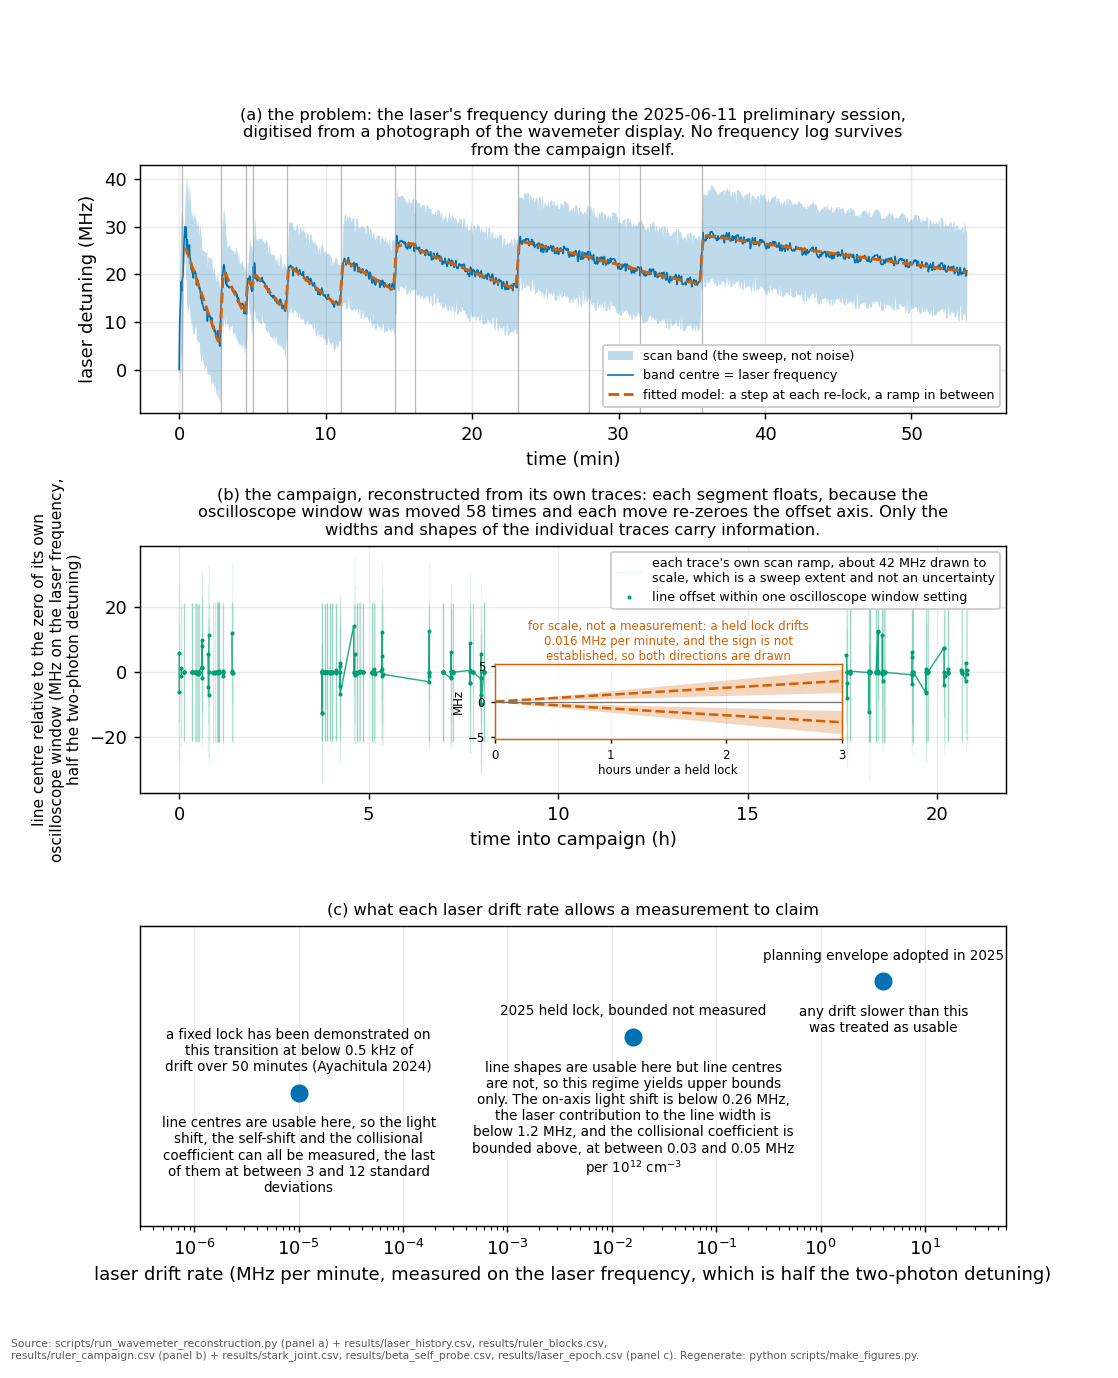
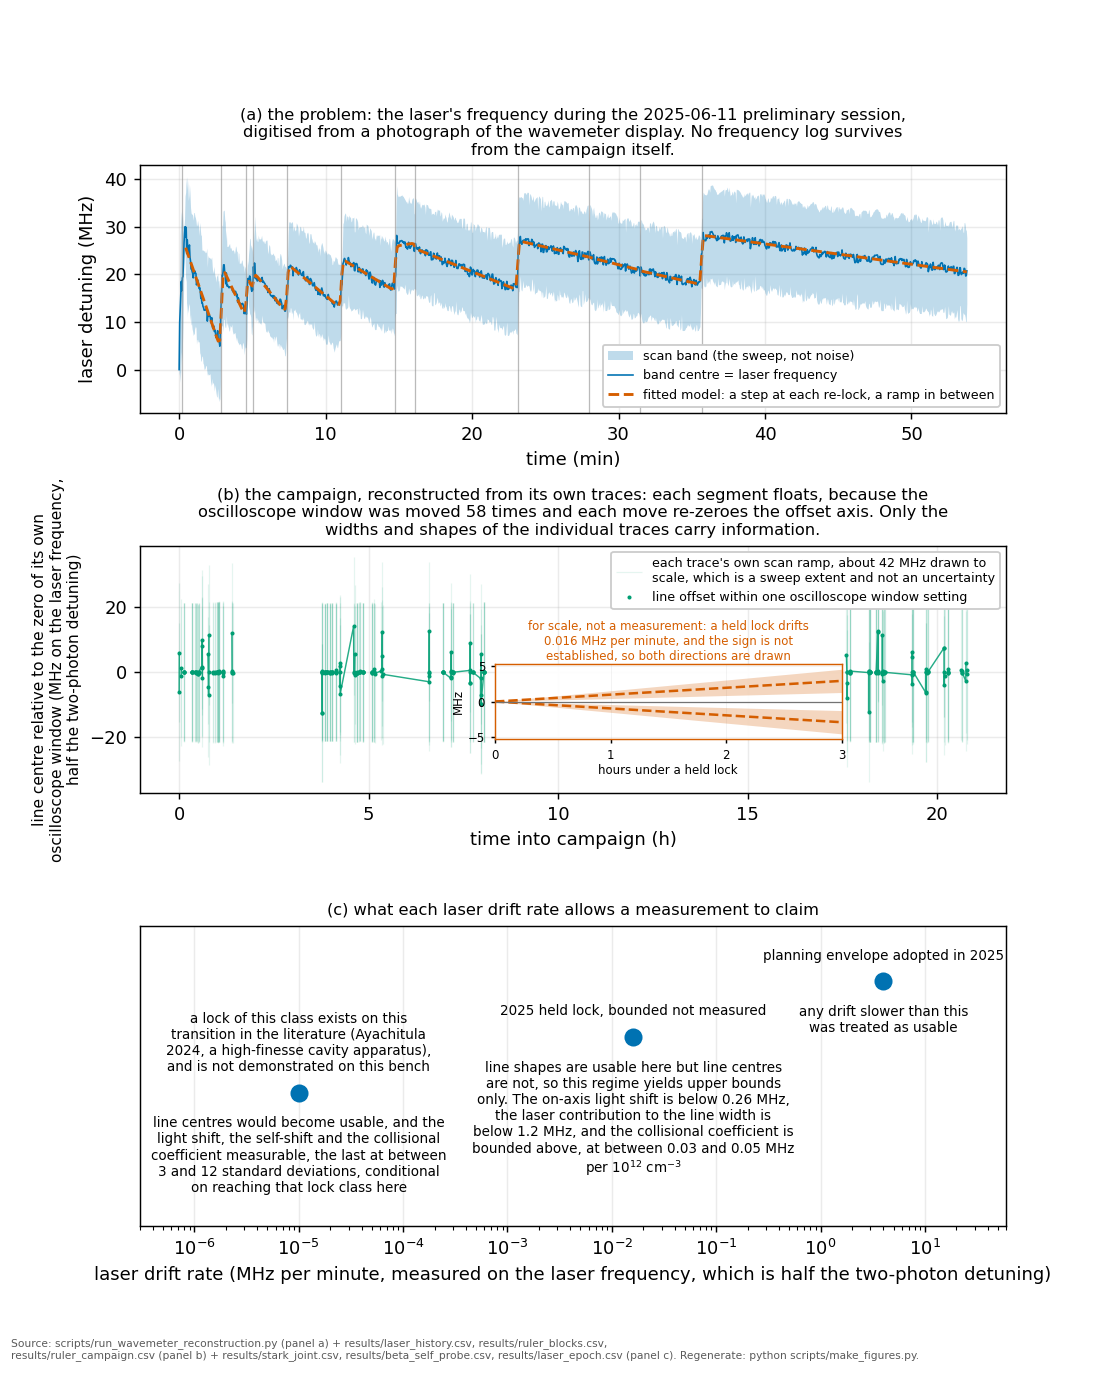
Port the caption-seam closure (archive 4b92798)
fig15(c) lock-class conditionality, PLAN threshold anchoring, fig21/22
status words, and the plant-verified caption-status guard.

Changed region(s): [[0.1216, 0.8113, 0.3953, 0.8737], [0.1521, 0.7177, 0.3953, 0.7801]]

diff --git a/scripts/make_figures.py b/scripts/make_figures.py
@@ -1941,12 +1941,13 @@ def fig_drift_story():
          f"bounded above, at between {min(bvals):.2f} and {max(bvals):.2f} MHz\n"
          r"per $10^{12}$ cm$^{-3}$"),
         (ayachitula_mhz_per_min,
-         "a fixed lock has been demonstrated on\nthis transition at below 0.5 kHz of\n"
-         "drift over 50 minutes (Ayachitula 2024)",
-         "line centres are usable here, so the light\n"
-         "shift, the self-shift and the collisional\n"
-         "coefficient can all be measured, the last\n"
-         "of them at between 3 and 12 standard\ndeviations"),
+         "a lock of this class exists on this\ntransition in the literature "
+         "(Ayachitula\n2024, a high-finesse cavity apparatus),\n"
+         "and is not demonstrated on this bench",
+         "line centres would become usable, and the\n"
+         "light shift, the self-shift and the collisional\n"
+         "coefficient measurable, the last at between\n"
+         "3 and 12 standard deviations, conditional\non reaching that lock class here"),
     ]
     ys = [2, 1, 0]
     for y, (rate, left, right) in zip(ys, regimes):
@@ -3336,8 +3337,11 @@ def fig_joint_fit_five():
             axr.set_xlabel("detuning from this repeat's fitted centre "
                            "(MHz on the laser frequency)", fontsize=8.5)
 
+    status = next(r["status"] for r in _rows("global_archive_fit")
+                  if r["quantity"] == "beta_self_joint")
     _footer(fig, "Sources: results/global_archive_fit.csv (the shared optimum "
-                 "and its errors) + data_raw archive (per-trace data, local "
+                 f"and its errors, {STATUS_WORD.get(status, status.lower())}) "
+                 "+ data_raw archive (per-trace data, local "
                  "nuisance refits only). Regenerate: python scripts/make_figures.py.")
     _save(fig, "fig21_joint_fit_five.png")
 
@@ -3453,7 +3457,10 @@ def fig_joint_fit_twenty():
              f"signal is\nweakest in the {int(round(min(POWERS) * 1000))} mW column, the "
              "lowest drive power of the sweep.",
              ha="center", va="top", fontsize=7.6, color="0.35")
-    _footer(fig, "Sources: results/global_archive_fit.csv (the shared optimum) "
+    status = next(r["status"] for r in _rows("global_archive_fit")
+                  if r["quantity"] == "beta_self_joint")
+    _footer(fig, "Sources: results/global_archive_fit.csv (the shared optimum, "
+                 f"{STATUS_WORD.get(status, status.lower())}) "
                  "+ data_raw archive (per-trace data, local nuisance refits "
                  "only). Regenerate: python scripts/make_figures.py.")
     _save(fig, "fig22_joint_fit_twenty.png")

diff --git a/tests/test_figures_fresh.py b/tests/test_figures_fresh.py
@@ -143,3 +143,30 @@ def test_figure_text_does_not_overlap():
         mf._save = original
         plt.close("all")
     assert not problems, "overlapping figure labels:\n  " + "\n  ".join(problems)
+
+
+def test_result_printing_captions_carry_a_status_word():
+    """A caption is part of the record, and captions are where the status
+    discipline drifted. The 2026-08-06 falsification pass found fig21 and
+    fig22 printing the shared collisional, laser and transit widths with no
+    status word while fig16 and fig18 carried it from the same context, and
+    the fig15 panel (c) defect failed at the same seam: hand-maintained
+    caption text drifts exactly where the carriage is not mechanical. Any
+    figure function that interpolates a shared fitted width into caption
+    text must also reference STATUS_WORD, so the status travels with the
+    number the reader actually sees."""
+    import re
+
+    src = (C.REPO_ROOT / "scripts" / "make_figures.py").read_text(encoding="utf-8")
+    offenders = []
+    for chunk in re.split(r"\ndef ", src):
+        name = chunk.split("(", 1)[0].strip()
+        if not name.startswith("fig_"):
+            continue
+        prints_width = re.search(
+            r"\{[^{}]*\['(?:gc|sl|transit|fwhm)'\][^{}]*\}", chunk)
+        if prints_width and "STATUS_WORD" not in chunk:
+            offenders.append(name)
+    assert not offenders, (
+        "figure functions print a fitted width with no status word "
+        "(the caption-seam failure of 2026-08-06):\n  " + "\n  ".join(offenders))

diff --git a/docs/PLAN.md b/docs/PLAN.md
@@ -154,8 +154,10 @@ is that it would be followed. The session also degrades gracefully. The pull is
 a differential measurement needing minutes of stability. The pre-registered
 bracket veto (§7a) cuts drift-jump blocks instead of averaging them. The
 sentinel condition (§10.6) monitors residual drift directly. Ayachitula (2024)
-held a lock on this same transition to < 0.5 kHz over 50 min, so a stable lock
-is demonstrated rather than hoped for. Worst case, the D1 beam-profile and ρ
+held a lock on this same transition to < 0.5 kHz over 50 min, an existence
+proof from a high-finesse cavity apparatus rather than from this bench, and
+the plan's own thresholds rest on the archive's measured held-lock rate
+rather than on that borrowed figure. Worst case, the D1 beam-profile and ρ
 measurements retroactively sharpen the 2025 archive and stand alone.
 
 The strongest argument against the observable this plan ranks first sits in the
